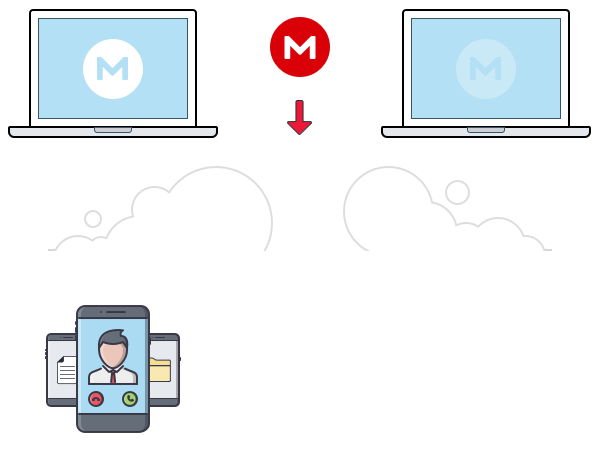
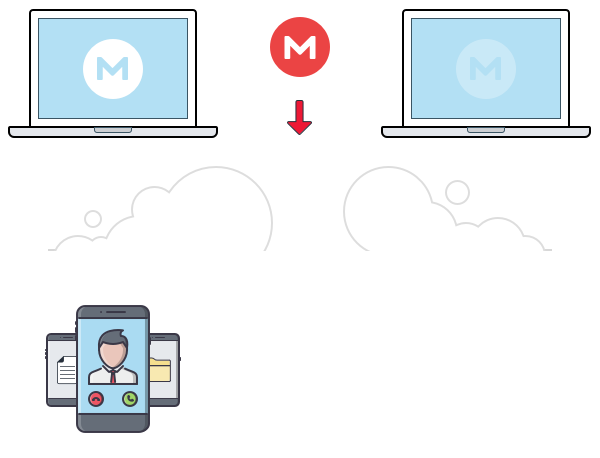
Update styling and add interaction to page

Changed region(s): [[0.45, 0.0306, 0.57, 0.1834]]

diff --git a/css/bottom-pages.css b/css/bottom-pages.css
@@ -1702,7 +1702,7 @@ height: 56px;
     line-height: 24px;
     color: #333333;
     padding: 28px 0 0px 0;
-    font-family: 'source_sans_prosemibold';
+    font-family: 'LatoWebBold', 'source_sans_prosemibold';
 }
 .cmd .default-select.megaapp-dropdown {
     margin: 13px auto 12px auto;
@@ -3523,11 +3523,11 @@ a.opensource-icon-txt.coming-soon {
     display: none;
 }
 .onboarding-suggestions .bottom-page.top-description {
-    margin: 30px auto 44px;
+    margin: 40px auto 44px;
     padding: 0;
 }
  .onboarding-suggestions .bottom-page.vertical-centered-bl.top-bl {
-    background-color: #F3F6F8;
+    background-color: #F4F4F6;
     height: 100%;
     height: -webkit-calc(100%);
     height: -moz-calc(100%);
@@ -3566,13 +3566,20 @@ a.opensource-icon-txt.coming-soon {
     display: none;
 }
 .onboarding-suggestions .bottom-page.horizontal-centered-bl {
-    min-height: 620px;
+    min-height: 720px;
     z-index: 999;
     padding: 0 24px;
     box-sizing: border-box;
 }
+.onboarding-suggestions .bottom-page.horizontal-centered-bl.resize {
+    min-height: 600px;
+}
 .onboarding-suggestions .download-app {
     min-width: 250px;
+    -webkit-box-sizing: border-box;
+    -moz-box-sizing: border-box;
+    box-sizing: border-box;
+    margin-top: 40px;
 }
 .onboarding-suggestions .onboard-image-wrapper {
     position: absolute;
@@ -3612,13 +3619,29 @@ a.opensource-icon-txt.coming-soon {
     width: 100%;
     height: 98px;
     bottom: -10px;
+    opacity: 1;
+    -webkit-transition: all 100ms ease-in-out;
+    -moz-transition: all 100ms ease-in-out;
+    -o-transition: all 100ms ease-in-out;
+    -ms-transition: all 100ms ease-in-out;
+    transition: all 100ms ease-in-out;
 }
+.onboarding-suggestions .onboard-image-wrapper .onboard-image.clouds.hidden, .onboarding-suggestions .onboard-image-wrapper .onboard-image.logo-mega.hidden, .onboarding-suggestions .onboard-image-wrapper .onboard-image.down-arrow.hidden {
+    opacity: 0;
+    display: block;
+    -webkit-transition: all 100ms ease-in-out;
+    -moz-transition: all 100ms ease-in-out;
+    -o-transition: all 100ms ease-in-out;
+    -ms-transition: all 100ms ease-in-out;
+    transition: all 100ms ease-in-out;
+} 
 .onboarding-suggestions .onboard-image-wrapper .onboard-image.logo-mega {
     background-position: -260px -7px;
     width: 80px;
     height: 80px;
     bottom: 222px;
     opacity: 0;
+    display: none;
     -webkit-transition: all 200ms ease-in-out;
     -moz-transition: all 200ms ease-in-out;
     -o-transition: all 200ms ease-in-out;
@@ -3627,6 +3650,7 @@ a.opensource-icon-txt.coming-soon {
 }
 .onboarding-suggestions .onboard-image-wrapper .onboard-image.logo-mega.visible {
     opacity: 1;
+    display: block;
     -webkit-transition: all 200ms ease-in-out;
     -moz-transition: all 200ms ease-in-out;
     -o-transition: all 200ms ease-in-out;
@@ -3646,10 +3670,10 @@ a.opensource-icon-txt.coming-soon {
     transition: all 200ms ease-in-out;
 }
 .onboarding-suggestions .onboard-image-wrapper .onboard-image.down-arrow.visible { 
-    -webkit-animation: downward-arrow 1s infinite ease-in-out; /* Safari 4+ */
-    -moz-animation:    downward-arrow 1s infinite ease-in-out; /* Fx 5+ */
-    -o-animation:      downward-arrow 1s infinite ease-in-out; /* Opera 12+ */
-    animation:         downward-arrow 1s infinite ease-in-out; /* IE 10+, Fx 29+ */
+    -webkit-animation: downward-arrow 2s infinite ease-in-out; /* Safari 4+ */
+    -moz-animation:    downward-arrow 2s infinite ease-in-out; /* Fx 5+ */
+    -o-animation:      downward-arrow 2s infinite ease-in-out; /* Opera 12+ */
+    animation:         downward-arrow 2s infinite ease-in-out; /* IE 10+, Fx 29+ */
 }
 .onboarding-suggestions .onboard-image.mobile-apps {
     background-position: -35px -292px;
@@ -3661,12 +3685,7 @@ a.opensource-icon-txt.coming-soon {
     margin: 0 auto 20px;
 }
 .onboarding-suggestions .badge {
-    padding: 2px 6px 3px;
-    border-radius: 5px;
-    color: #fff;
-    font-size: 14px;
-    background-color: #00BFA5;
-    font-family: 'LatoWeb', 'source_sans_proregular', sans-serif;
+    font-family: 'LatoWebBold', 'source_sans_proregular', sans-serif;
 }
 .onboarding-suggestions .default-green-button.redirect-clouddrive::after{
     width: 26px;
@@ -3676,7 +3695,158 @@ a.opensource-icon-txt.coming-soon {
     margin: 0 0 -10px 9px;
     display: inline-block;
     position: relative;
-}/*
+}
+.onboarding-suggestions .text-button.redirect-clouddrive-link {
+    display: inline-block;
+    font-family: 'LatoWeb', 'source_sans_proregular', sans-serif;
+}
+.onboarding-suggestions .text-button.redirect-clouddrive-link.hidden {
+    display: none;
+}
+.onboarding-suggestions .cmd .default-select.megaapp-dropdown {
+    box-shadow: 0 1px 2px 0 rgba(0,0,0,0.15);
+    -webkit-box-shadow: 0 1px 2px 0 rgba(0,0,0,0.15);
+    -moz-box-shadow: 0 1px 2px 0 rgba(0,0,0,0.15);
+    height: 40px;
+    line-height: 39px;
+    background-position: right -8356px;
+    -webkit-transition: all 200ms ease-in-out;
+    -moz-transition: all 200ms ease-in-out;
+    -o-transition: all 200ms ease-in-out;
+    -ms-transition: all 200ms ease-in-out;
+    transition: all 200ms ease-in-out;
+    width: 250px;
+    margin-top: 20px;
+}
+.onboarding-suggestions .cmd .default-select.megaapp-dropdown:hover {
+    box-shadow: 0 0 0 4px rgba(0,0,0,0.15);
+    -webkit-box-shadow: 0 0 0 4px rgba(0,0,0,0.15);
+    -moz-box-shadow: 0 0 0 4px rgba(0,0,0,0.15);
+    -webkit-transition: all 200ms ease-in-out;
+    -moz-transition: all 200ms ease-in-out;
+    -o-transition: all 200ms ease-in-out;
+    -ms-transition: all 200ms ease-in-out;
+    transition: all 200ms ease-in-out;
+}
+.onboarding-suggestions .cmd .default-select::before {
+    height: 40px;
+}
+.onboarding-suggestions .cmd.megaapp-linux .bottom-page.split-buttons {
+    width: 250px;
+    white-space: nowrap;
+    margin: 0 auto;
+    -webkit-box-sizing: border-box;
+    -moz-box-sizing: border-box;
+    box-sizing: border-box;
+    padding: 0;
+}
+.split-buttons div.radioOn, .split-buttons div.radioOff {
+    float: left;
+    width: calc((100% - 8px ) / 2 );
+    height: 36px;
+    margin-right:0;
+    margin-top: 0;
+    cursor: pointer;
+    background-color: white;
+    -moz-border-radius: 3px;
+    -webkit-border-radius: 3px;
+    border-radius: 3px;
+    position: relative;
+    -webkit-box-shadow: 0 0 0 0 rgba(0,0,0,0.1);
+    -moz-box-shadow: 0 0 0 0 rgba(0,0,0,0.1);
+    box-shadow: 0 0 0 0 rgba(0,0,0,0.1);
+    -webkit-box-sizing: border-box;
+    -moz-box-sizing: border-box;
+    box-sizing: border-box;
+    -webkit-transition: all 200ms ease-in-out;
+    -moz-transition: all 200ms ease-in-out;
+    -o-transition: all 200ms ease-in-out;
+    -ms-transition: all 200ms ease-in-out;
+    transition: all 200ms ease-in-out;
+    border: 1px solid #ddd;
+}
+.onboarding-suggestions .split-buttons div:first-of-type {
+    margin-right: 8px;
+}
+.split-buttons div.radioOn::before, .split-buttons div.radioOff::before {
+    width: 100%;
+    height: 100%;
+    position: absolute;
+    content:none;
+    left: 0;
+    top: 0;
+    -moz-border-radius: 0;
+    -webkit-border-radius:0;
+    border-radius: 0;
+    -webkit-box-shadow: 0 0 0 0 rgba(0,0,0,0.15);
+    -moz-box-shadow: 0 0 0 0 rgba(0,0,0,0.15);
+    box-shadow: 0 0 0 0 rgba(0,0,0,0.15);
+}
+.split-buttons div.radioOn::after, .split-buttons div.radioOff::after {
+    width: 100%;
+    height: 100%;
+    display: inline-block;
+    content: none;
+    -moz-border-radius: 4px;
+    -webkit-border-radius: 4px;
+    border-radius: 4px;
+    background-color: rgba(0,0,0,0);
+    -webkit-box-sizing: border-box;
+    -moz-box-sizing: border-box;
+    box-sizing: border-box;
+    border: 0px solid transparent;
+}
+.split-buttons .radio-txt {
+    float: initial;
+    font-size: 14px;
+    line-height: 34px;
+    color: #777777;
+    padding-right: 0;
+    padding-top: 0;
+    max-width: -webkit-calc(100%);
+    max-width: -moz-calc(100%);
+    max-width: calc(100%);
+    -webkit-box-sizing: border-box;
+    -moz-box-sizing: border-box;
+    box-sizing: border-box;
+    display: block;
+    font-family: 'LatoWeb', 'source_sans_proregular', sans-serif;
+}
+.split-buttons div.radioOff:hover {
+    background-color: #E5F8F6;
+    border: 1px solid #5BC6B8;
+    -webkit-transition: all 200ms ease-in-out;
+    -moz-transition: all 200ms ease-in-out;
+    -o-transition: all 200ms ease-in-out;
+    -ms-transition: all 200ms ease-in-out;
+    transition: all 200ms ease-in-out;
+}
+.split-buttons div.radioOn {
+    background-color: #E5F8F6;
+    border: 1px solid #5BC6B8;
+    -webkit-transition: all 200ms ease-in-out;
+    -moz-transition: all 200ms ease-in-out;
+    -o-transition: all 200ms ease-in-out;
+    -ms-transition: all 200ms ease-in-out;
+    transition: all 200ms ease-in-out;
+}
+.split-buttons div.radioOn .radio-txt {
+    color: #495057;
+    font-family: 'LatoWebBold', 'source_sans_prosemibold', sans-serif;
+}
+.onboarding-suggestions .megaapp-linux-info {
+    padding: 0;
+}
+.onboarding-suggestions .megaapp-linux.cmd {
+    margin-bottom: 12px;
+}
+.onboarding-suggestions.linux .cmd .default-select.megaapp-dropdown, .onboarding-suggestions.linux .cmd.megaapp-linux .bottom-page.split-buttons, .onboarding-suggestions.linux .download-app {
+    width: 300px;
+}
+.onboarding-suggestions.linux .download-app {
+    margin-top: 0px;
+} 
+/*
 .bottom-page.download-container.linux-only {
     display: inline-block;
     padding: 16px 16px 10px 16px;
@@ -3684,11 +3854,6 @@ a.opensource-icon-txt.coming-soon {
     border:1px solid #ddd;
     border-radius: 8px;
 }*/
-.onboarding-suggestions .radioOn .radio-txt {
-    color: #333;
-    font-family: 'LatoWebBold', 'source_sans_probold', sans-serif;
-}
-
 @media only screen and (-webkit-min-device-pixel-ratio: 1.5), only screen and (-o-min-device-pixel-ratio: 3/2), only screen and (min--moz-device-pixel-ratio: 1.5), only screen and (min-device-pixel-ratio: 1.5) {
 .medium-icon.down-arrow, .bottom-page.big-icon.interactive, .bottom-page.big-icon.scriptable, .bottom-page.big-icon.target, .bottom-page.big-icon.charts, .small-megasync-logo, .mobile-apps-button, .bottom-page.big-icon.mobile-cloud, .bottom-page.big-icon.chat, .bottom-page.big-icon.photos, .bottom-page.big-icon.cloud, .bottom-page.big-icon.wp, .bottom-page.tab-icon, .bottom-page.big-icon.folders, .bottom-page.big-icon.arrows, .bottom-page.big-icon.up-down, .bottom-page.big-icon.camera, .bottom-page.big-icon.player, .bottom-page.big-icon.mobile-arrow, .bottom-page.top-title::before, .pages-nav.nav-icon.bott-sprite, .bottom-page.mid-icon, .bottom-page.cols-container .col3::before, .bottom-page.tab-lnk-icon, .cmd-top-img, .bottom-page.scroll-icon, .bottom-page.dark-button, .bottom-page.big-link i, .bottom-page.large-icon.pages-sprite, .bottom-page.big-icon.pages-sprite {
     background-image: url(../images/mega/pages-sprite_v4@2x.png) !important;

diff --git a/html/desktop-onboarding.html b/html/desktop-onboarding.html
@@ -5,20 +5,20 @@
         <div class="bottom-page vertical-centered-cell">
             <div class="bottom-page horizontal-centered-bl">
                 <div class="mobile onboard-image mobile-apps"></div>
-                <div class="bottom-page top-dark-info medium">You’re nearly there, download our desktop app to get started!</div>
+                <div class="bottom-page top-dark-info medium pre-download">Download our desktop app to get started!</div>
+                <div class="bottom-page top-dark-info medium post-download hidden">MEGA is being downloaded to your computer.</div>
                 <!-- Im not sure what you prefer but you can either toggle hidden between pre-download and post-download to hide/show the correct message or insert it with JS-->
                 <div class="bottom-page top-description pre-download">
                     Earn <span class="badge storage">20 GBs</span> of storage and <span class="badge transfer">50 GBs</span> of transfer quota for downloading and installing the desktop app, courtesy of our Achievements program.
                 </div>
                 <div class="bottom-page top-description post-download hidden">
-                   Please install it, as soon as it has finished downloading to earn your Achievement bonus.
-                </div>
-                <!-- Add hidden classif user has linux and has not chosen a distro to download -->
-                <div class="default-green-button height-48 download-app">
-                    Download
+                   Please install it as soon as it has finished downloading to earn your Achievement bonus.
                 </div>
                 <!-- Remove hidden class if user is operating Linux -->
                 <div class="megaapp-linux cmd hidden">
+                    <div class="megaapp-linux-info">
+                        [$18777]
+                    </div>
                     <div class="default-select megaapp-dropdown"> <span class="megaapp-linux-default">[$7086]</span>
                         <div class="megaapp-dropdown-list default-select-dropdown hidden">
                             <div class="megaapp-dropdown-scroll">
@@ -27,20 +27,23 @@
                             <div class="mega-list-arrow hidden"></div>
                         </div>
                     </div>
-                    <div class="bottom-page radio-buttons">
+                    <div class="bottom-page radio-buttons split-buttons">
                         <div class="architecture-checkbox radioOff">
-                            <input type="radio" name="architecture" id="rad1" class="linux32 radioOff" value="32">
+                            <input type="radio" name="architecture" id="rad1" class="linux32 radioOff" value="32"><label for="rad1" class="radio-txt 32">32 bit</label>
                         </div>
-                        <label for="rad1" class="radio-txt 32">32 bit</label>
+                        
                         <div class="architecture-checkbox radioOn">
-                            <input type="radio" name="architecture" id="rad2" class="linux64 radioOn" checked="checked" value="64">
+                            <input type="radio" name="architecture" id="rad2" class="linux64 radioOn" checked="checked" value="64"> <label for="rad2" class="radio-txt 64">64 bit</label>
                         </div>
-                        <label for="rad2" class="radio-txt 64">64 bit</label>
                         <div class="clear"></div>
                     </div>
                 </div>
+                <!-- Add hidden classif user has linux and has not chosen a distro to download -->
+                <div class="default-green-button height-48 download-app">
+                    Download
+                </div>
             </div>
-            <div class="bottom-page bottom-bar desktop-redirection border">
+            <div class="bottom-page bottom-bar desktop-redirection">
                 <!-- Add hidden class to this entire block, when a user is viewing page on mobile -->
                 <div class="bottom-page onboard-image-wrapper">
                     <!-- Remove hidden class when user has clicked the download button -->

diff --git a/html/js/desktop-onboarding.js b/html/js/desktop-onboarding.js
@@ -21,20 +21,34 @@
 
             $('.onboard-image.clouds', $oiw).removeClass('hidden');
             $('.onboard-image.logo-mega', $oiw).addClass('visible');
-            $('.onboard-image.down-array', $oiw).addClass('visible');
+            $('.onboard-image.down-arrow', $oiw).addClass('visible');
             $('.onboard-image.desktop-inactive', $oiw).addClass('hidden');
             $('.onboard-image.desktop-active', $oiw).removeClass('hidden');
+            $('.default-green-button.download-app', $oiw).addClass('hidden');
+            
+            //Hide the download buttons and MEGAcmd dropdown
+            $('.default-green-button.download-app', $wrapper).addClass('hidden');
+            $('.megaapp-linux.cmd', $wrapper).addClass('hidden');
 
+            //Swap between pre/post download body text
             $('.pre-download', $wrapper).addClass('hidden');
             $('.post-download', $wrapper).removeClass('hidden');
+
+            //Swap between text button and green button for cloud drive redirection
+            $('.text-button.redirect-clouddrive-link', $wrapper).addClass('hidden');
+            $('.default-green-button.redirect-clouddrive', $wrapper).removeClass('hidden');
+            $('.bottom-bar.desktop-redirection', $wrapper).addClass('border');
+
+            //Resize the height of the container to align items 
+            $('.bottom-page.horizontal-centered-bl', $wrapper).addClass('resize');
 
             window.location = syncurl;
             return false;
         });
 
-        ua += ' linux ';
         if (is_mobile || ua.indexOf('linux') < 0) {
             $('.download-app', $wrapper).removeClass('hidden');
+            $('.bottom-page.horizontal-centered-bl', $wrapper).addClass('resize');
 
             if (is_mobile) {
                 $('.desktop-redirection', $wrapper).addClass('hidden');
@@ -42,6 +56,7 @@
         }
         else {
             $('.megaapp-linux', $wrapper).removeClass('hidden');
+            $('.bottom-page.horizontal-centered-bl', $wrapper).removeClass('resize');
 
             initMegasync();
             mBroadcaster.addListener('megasync-linux-distro-selected', function(url) {
